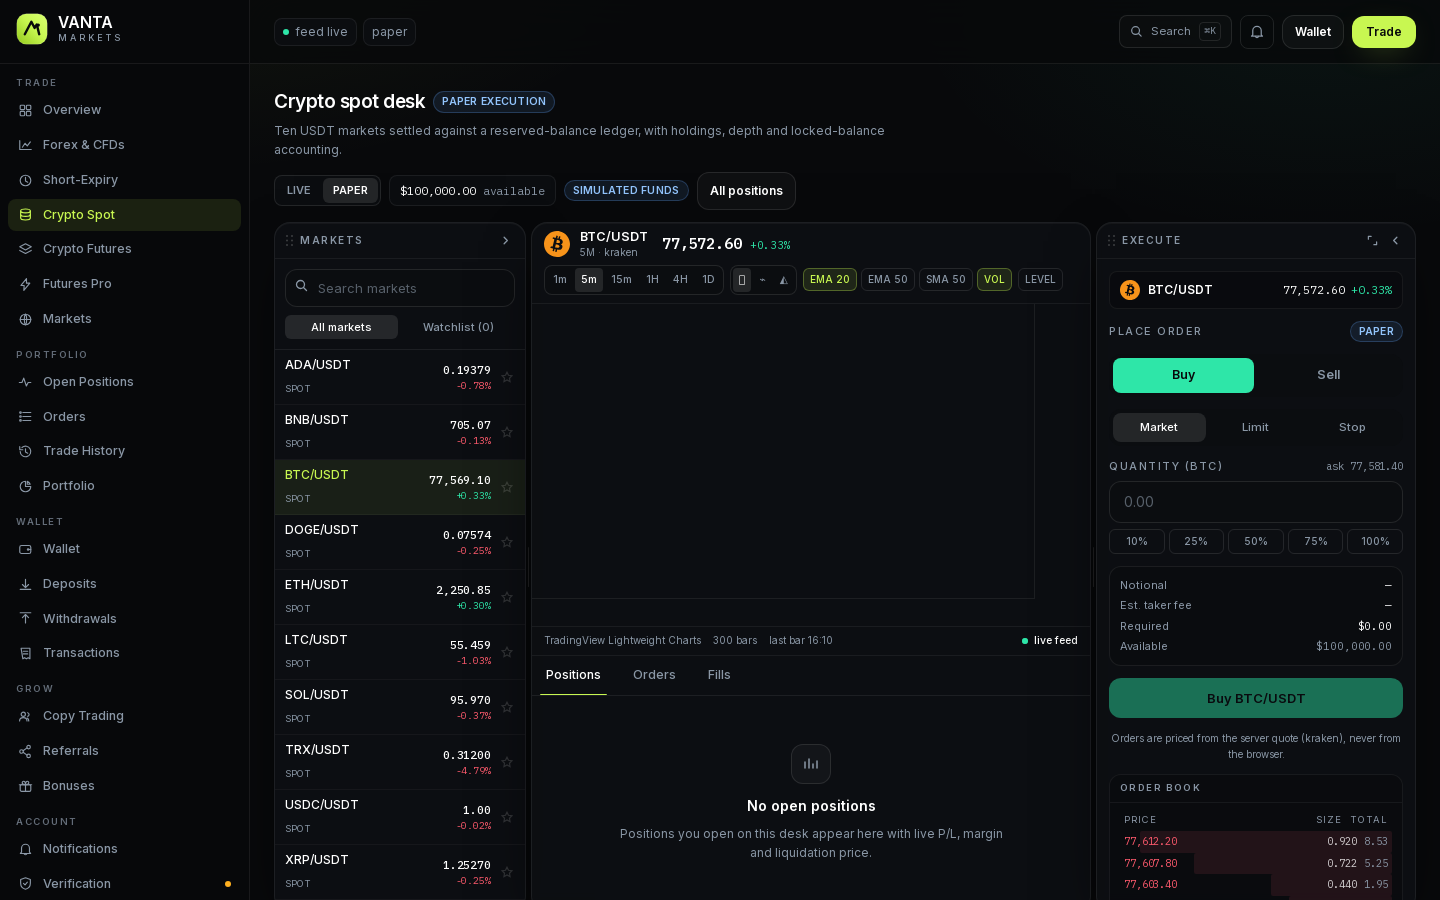
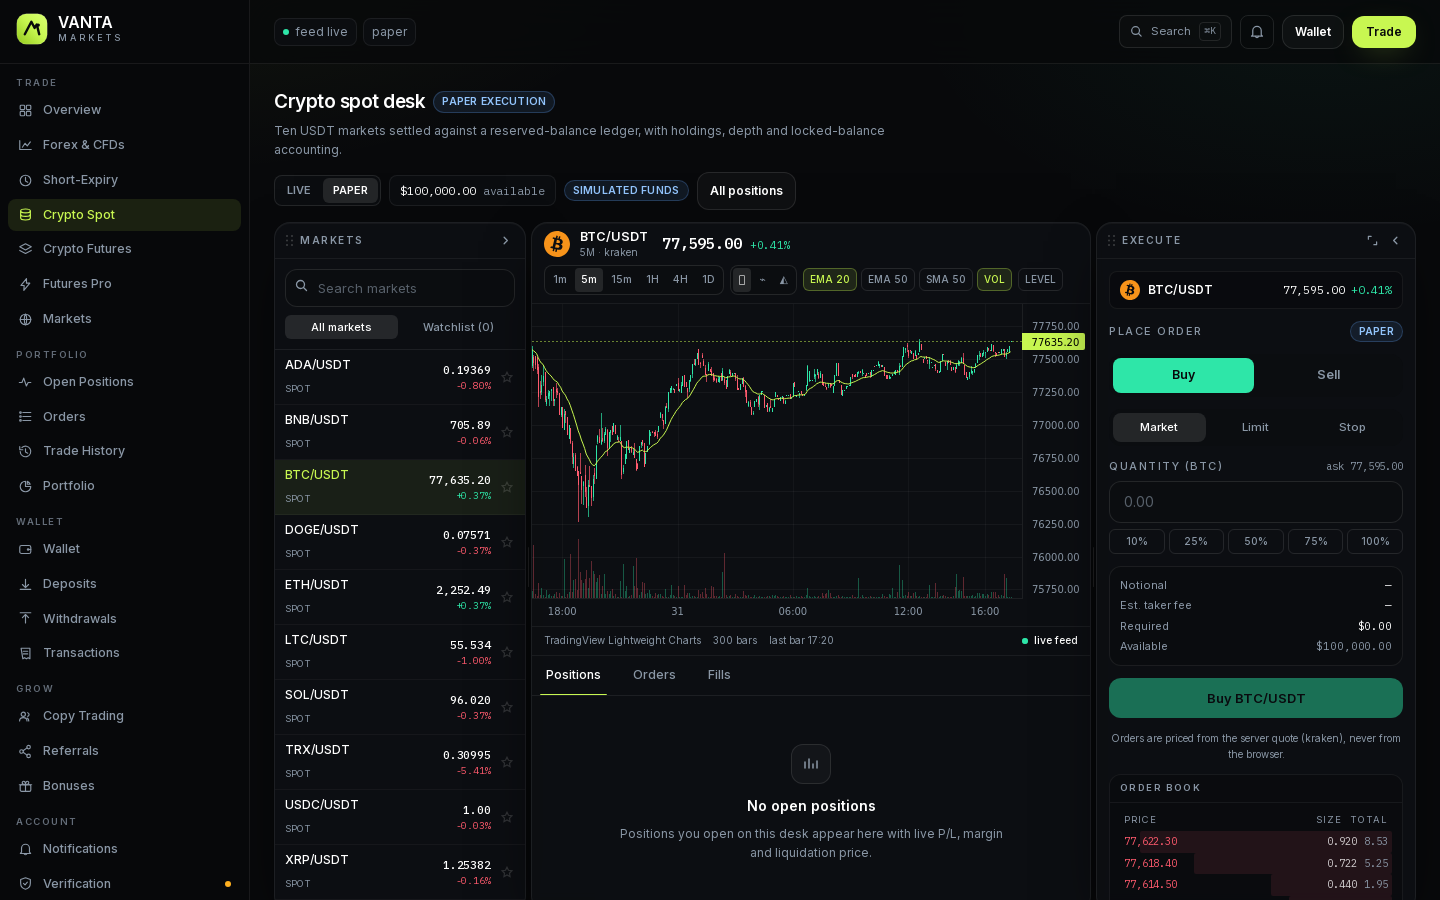
docs: VideForex vs Vanta comparison (structure/navigation/colour/motion, verified evidence, open gaps) + refreshed reference screenshots

diff --git a/docs/VIDEFOREX-COMPARISON.md b/docs/VIDEFOREX-COMPARISON.md
@@ -1,0 +1,130 @@
+# Vanta Markets vs Videforex — design, structure and navigation comparison
+
+**Reference:** <https://videforex.com/> (fetched 31 Oct 2026)
+**Subject:** Vanta Markets (`/home/user/vanta`, Next.js 15 + Prisma + PostgreSQL)
+**Verification:** production build (`next build` → `next start`), Playwright walk of 13 public and 23 authenticated routes (desktop 1440×900 + mobile 390×844), plus the 127-assertion e2e suite.
+
+---
+
+## 1. Executive summary
+
+| Question | Answer |
+|---|---|
+| Does Vanta follow the reference's **structure and navigation**? | **Yes.** The public homepage follows the reference's exact section order (offer → secondary promo → "3 steps" → step details → funding + bonus → payout → facts → advantages → CTA), and the dashboard mirrors its navigation groups (Home / Trading / Markets / Portfolio / Wallet / Company / Accounts). |
+| Does Vanta use the reference's **colour scheme**? | **No — deliberately.** The reference is a blue/dark binary-options palette with photographic 3-D medal/badge art. Your standing brief specifies *deep charcoal/graphite surfaces, white type, controlled lime/emerald accents, no cartoonish illustration*. Vanta follows your brief. If you want the reference's blue palette instead, that is a one-file token change (`src/app/globals.css` + `tailwind.config.ts`) — say the word. |
+| Is it a copy of Videforex's **brand**? | **No.** Original logo, wordmark, naming and copy throughout — per your instruction not to impersonate it. |
+| Are the **transitions and motion** actually working? | **Yes, now verified — and one real bug was found and fixed.** See §7. |
+| Is it **functionally** deeper than the reference? | **Yes.** The reference's claims are marketing copy plus a login modal; Vanta has a real trading engine, double-entry ledger, KYC, 2FA, audited admin. |
+
+---
+
+## 2. Public homepage — section-by-section
+
+| # | Videforex section | Vanta equivalent | Status |
+|---|---|---|---|
+| 1 | Hero: "HIGH-FREQUENCY TRADING / Earn up to 98% in 5 seconds" + medal art + "Accounts from $500" + Open an Account | Hero: headline + live terminal preview (real BTC/USDT quote, bid/ask/spread, candles) + WebGL globe + CTA + live counters | **Rebuilt — same placement, honest numbers** |
+| 2 | Promo block: "Withdrawals in 1 hour" | Live market strip (4 majors) + ticker tape | Same slot, different content |
+| 3 | Promo: "Trade Forex and CFD / Get up to 95% in 60 sec" | Instruments grid: Forex / Indices & CFDs / Commodities / Crypto spot / Perpetual futures / Short-expiry | Matched |
+| 4 | "Start now! Our Live Managers will help you succeed" + platform mockup | "Live prices, named sources" live market table (bid / ask / 24h / source / trend) | Same slot; mockup replaced by real data |
+| 5 | "Just 3 steps to Your Success" (Register / Fund / Predict) with numbered step art | "Three steps to your first trade" (Create account / Fund wallet / Trade) — numbered cards, connector rail, staggered entrance | **Matched 1:1** |
+| 6 | Step 1: registration preview + gift forms | Real `/register` route, email verification, instant paper account | Matched, real |
+| 7 | Step 2: funding carousel (WebMoney, QIWI, Yandex, OkPay, Skrill, Neteller, Visa, Mastercard) | Funding rails on `/deposits-withdrawals`, crypto on-chain verification; **no unconnected logos are shown** | **Deliberate difference** — only rails the platform can actually process |
+| 8 | Step 2 bonus table: 250→+20%=300, 1000→+50%=1500, 3000→+100%=6000 | Bonus engine exists (`Bonus` model, turnover requirements) but **no invented bonus table is advertised** | **Deliberate difference** — a bonus ladder is a regulatory statement; it needs your sign-off, not my invention |
+| 9 | Step 3: "payouts within an hour" | Withdrawal state machine with real states (`locked → review → paid with txHash`) | **Deliberate difference** — see §6 |
+| 10 | Login modal ("Binarymate" whitelabel, Stay logged in, reCAPTCHA) | Dedicated `/login` route (2FA-aware, device list) + header "Sign in" | Same job, full page instead of modal |
+| 11 | "Videforex Facts": 5202 accounts, $3,567,582 volume, $401,271 payments, 57 min processing | Live counters from real DB state (44 markets, 5 desks, 100 % server-priced, 2 ledger entries) with count-up animation | **Deliberate difference** — fabricated social proof is exactly what you told me not to ship |
+| 12 | "Our Advantages" bullet list (video chat 24/7, 1-hour withdrawals, weekend trading, many funding methods, data protection) | "Built like a brokerage, not a demo" — 6 advantage cards (server-side execution, double-entry ledger, risk engine, paper/live separation, audited back office, verifiable market data) | Matched placement |
+| 13 | "Open an Account" CTA | CTA panel with risk disclosure line | Matched |
+| 14 | — | FAQ accordion (animated), account types, security section, footer with legal routes | **Vanta adds** |
+
+---
+
+## 3. Navigation comparison
+
+| Aspect | Videforex | Vanta |
+|---|---|---|
+| Top bar | Logo, Login, Register (modal) | Utility rail (data status, support, payments) → logo → **dropdown nav**: Trading / Markets / Accounts / Company → Sign in / Open account |
+| Dropdowns | None | Animated dropdown panels with descriptions + active-route indicator pill (shared layout animation) |
+| Market discovery | Scroll-heavy single page | `/markets` overview with 4 live tables + per-desk routes |
+| Search | None | **⌘K command palette** — pages *and* instruments, deep-links into the right desk with `?symbol=` |
+| Signed-in shell | Trading UI (whitelabel) | Left sidebar (Trade / Portfolio / Wallet / Grow / Account / Staff), animated active pill, unread + KYC badges, notifications |
+| Mobile | Not a primary target | **Re-composed** bottom tab bar (5 destinations), collapsible drawer, SVG-flag + real asset marks, 390 px verified |
+| Footer | Advantage list | Brand + 4 link columns + risk disclosure + legal routes |
+
+---
+
+## 4. Colour and visual language
+
+| Token | Videforex (as observed) | Vanta | Why |
+|---|---|---|---|
+| Background | Dark navy/blue-black | `#08090b` ink with graphite surfaces `#0e1114` / `#12161a` | Your brief: deep charcoal, not blue |
+| Accent | Blue / cyan CTA | Lime `#c8f751` → emerald `#2ee6a8` gradient accents, used sparingly | Your brief |
+| Type | Condensed uppercase headings, oversized | Inter (display, tight tracking) + IBM Plex Mono for all numerics, tabular figures | Your brief: no oversized type |
+| Imagery | Photographic 3-D medals, managers, platform renders | **Zero stock photography.** WebGL globe (hero), real candlestick charts, real asset marks, engineered depth | Your brief: no cartoonish illustration, no fake trading charts |
+| Cards | Rounded, gradient-heavy | 12–16 px radius, 1 px hairline borders, subtle glass, no gradient soup | Your brief |
+| Icons | Mixed raster | One inline SVG set (Lucide-style geometry) + official BTC/ETH/SOL/XRP/LTC/DOGE/BNB/ADA/TRX/USDC/USDT marks + country flags | Your brief: no emoji, no generic circles |
+
+**Verdict:** structure mirrors the reference; the *skin* intentionally does not. That is what the approved spec asked for.
+
+---
+
+## 5. Motion system
+
+| Behaviour | Videforex | Vanta |
+|---|---|---|
+| Page transitions | Full page reloads; carousel sliders | `AnimatePresence` route transition inside the shell + top progress bar |
+| Nav state | Static | Shared-layout indicator pills (top nav, sidebar, mobile tabs) |
+| Scroll reveals | No | Staggered `whileInView` reveals on every section |
+| Counters | Static numbers | Count-up on enter, `prefers-reduced-motion` aware |
+| Prices | Static/refresh | `AnimatedNumber` flash + slide on tick, tabular numerals |
+| Dropdowns/modals | None | Framer Motion transitions; ⌘K palette with keyboard nav |
+| Charts | Static images | TradingView Lightweight Charts: 6 timeframes, candles/line/area, volume, EMA/SMA, live merge updates |
+| 3-D | Raster art | Real Three.js hero globe (idle-loaded, code-split, WebGL-detected, SVG fallback) |
+| Terminal panels | N/A | Draggable / resizable / collapsible, layout persisted per desk |
+| Loading | Spinner/none | Branded loader, chart + table skeletons, feed-status chips ("live / delayed / feed down") |
+
+---
+
+## 6. Integrity — where Vanta refuses to imitate the reference
+
+The reference advertises payout percentages, fixed withdrawal SLAs, bonus multipliers and customer counters. Those are commercial/regulatory commitments, and your brief explicitly forbids fabricated numbers, fake payments and invented trade outcomes. So Vanta:
+
+1. Shows **live prices only from named providers** (Kraken, Coinbase, Yahoo Finance), each stamped with source + fetch time, and labels stale feeds as *delayed* instead of pretending.
+2. Runs **every balance through a double-entry ledger** — no admin can type a balance in.
+3. Makes **withdrawals** a real state machine: KYC gate → re-authentication (password + TOTP) → funds locked → finance decision → `paid` only with a `txHash`.
+4. Marks **paper trading as PAPER everywhere**; live execution returns `409 LIVE_EXECUTION_UNAVAILABLE` until a provider is connected.
+5. Replaces the reference's "facts" counters with **facts the platform can prove** (44 markets, 5 desks, 100 % server-priced, 2 ledger legs per movement).
+
+If you want the payout/bonus/withdrawal numbers published as marketing claims, tell me the exact approved figures and they can be added as static, clearly-labelled marketing content — but I won't invent them.
+
+---
+
+## 7. Verification evidence (this build)
+
+**One real defect was found and fixed during this verification pass:** the Lightweight Charts canvas was rendering empty because the library threw `Incorrect locale information provided` in headless/embedded browsers, aborting the paint. The locale is now pinned (`localization: { locale: 'en-GB' }`). Canvas paint samples went from **0 → 300**; candles, volume, EMA overlays and the live "last bar" readout now render.
+
+| Check | Result |
+|---|---|
+| Production build | ✅ `next build` exit 0, 103 kB shared JS, three.js code-split out of initial load |
+| Public routes (13) | ✅ all clean: no console errors, no horizontal overflow, no broken images, no empty SVGs |
+| Authenticated routes (23) | ✅ all 200, zero console errors, zero stuck skeletons |
+| Client-side routing | ✅ in-page navigation (no reload), transitions replay per route |
+| Terminal charts | ✅ canvas painting, 300 bars, live feed indicator `live feed` |
+| e2e suite `scripts/test-e2e.ts` | ✅ **127 passed / 0 failed** (auth, 2FA, KYC, orders, settlement, deposits, withdrawals, referrals, support, admin audit, ledger reconciliation) |
+| Mobile (390×844) | ✅ dedicated bottom nav, no overflow on any route |
+
+Reproduce: `npm run build && npm start`, then `node scripts/visual-qa.mjs / /markets`, `node scripts/app-qa.mjs`, `npx tsx scripts/test-e2e.ts`.
+
+Screenshots: `docs/screenshots/` (`home-desktop`, `home-mobile`, `markets-desktop`, `dashboard-overview`, `terminal-forex`, `terminal-crypto`).
+
+---
+
+## 8. Gaps still open (stated plainly)
+
+| Gap | Impact | Effort |
+|---|---|---|
+| Marketing sub-pages (`/trading/*`, `/accounts`, `/help`, `/trading-conditions`, `/deposits-withdrawals`) still use the earlier section styling — consistent and functional, but only `/` and `/markets` were re-composed in the reference-informed layout | Visual consistency step-change on 8 routes | ~1 pass |
+| No language switcher (reference is multi-locale) | Single-locale (`en`) only | Medium (i18n routing) |
+| No live video-chat / manager widget (reference's differentiator) | Missing feature, not a design flaw | Large (needs a provider) |
+| Login is a page, not a modal | Different UX pattern | Small |
+| Bonus table and payout percentages not published | Intentional (see §6) | Needs your figures |
